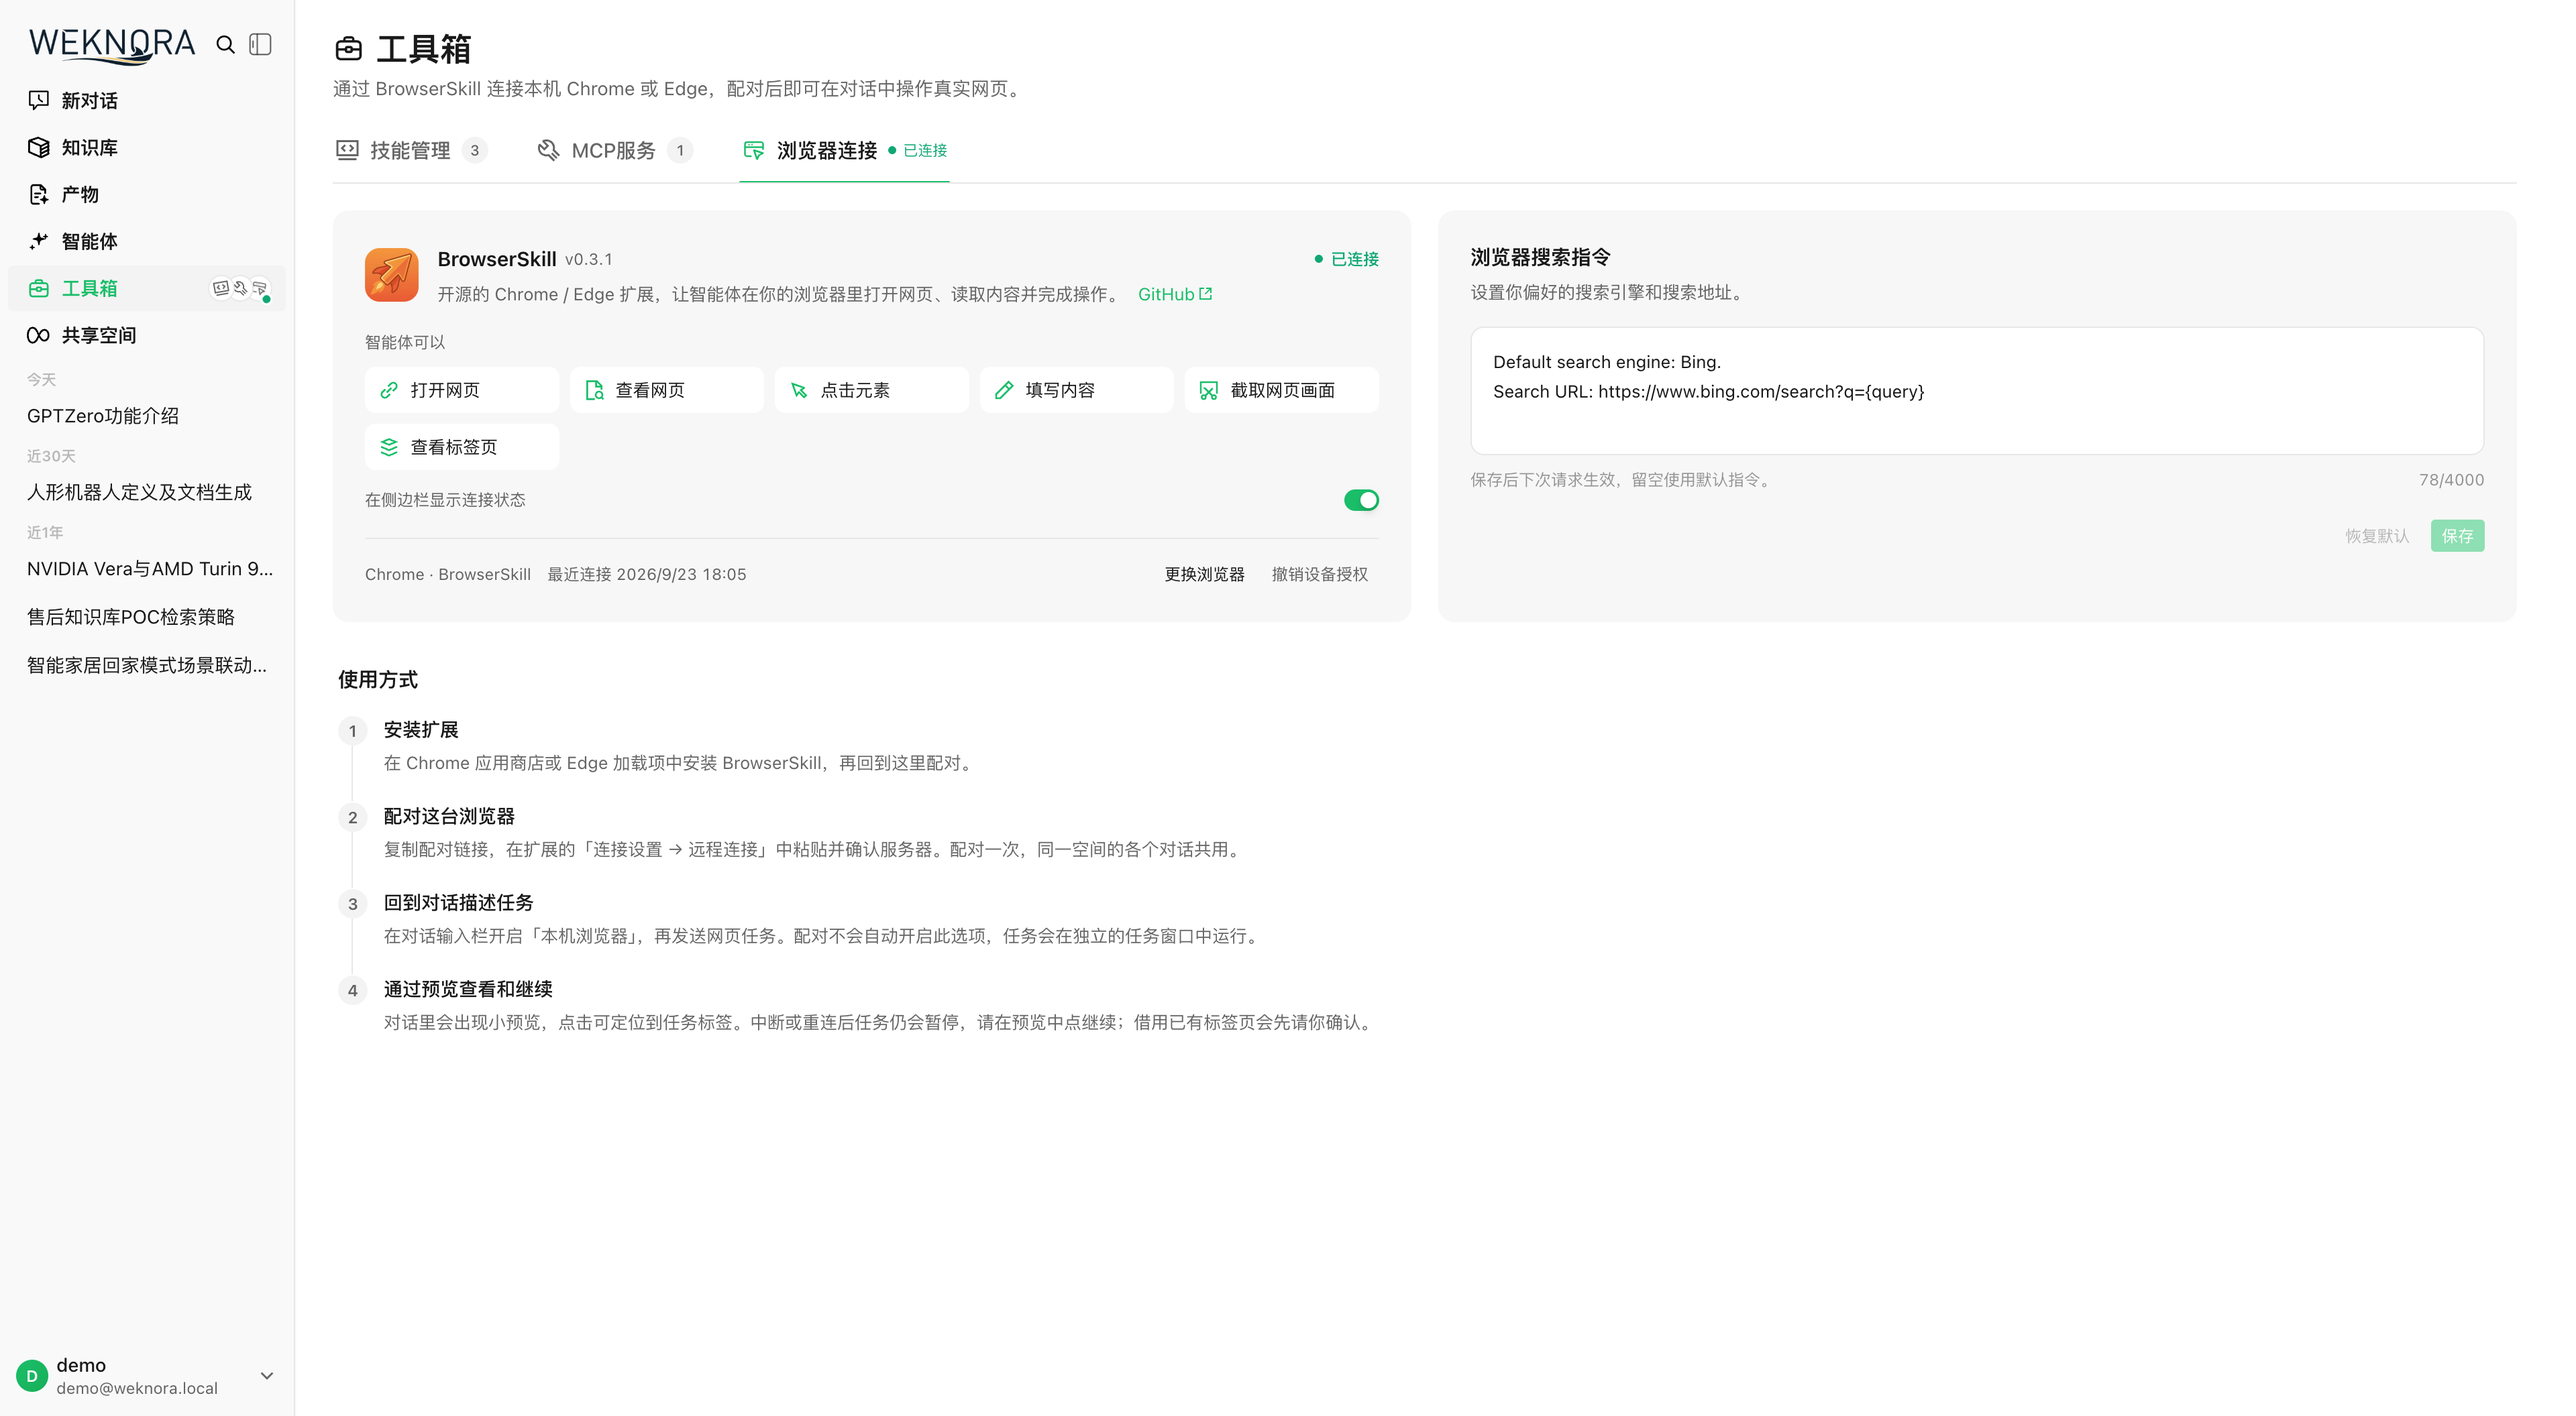
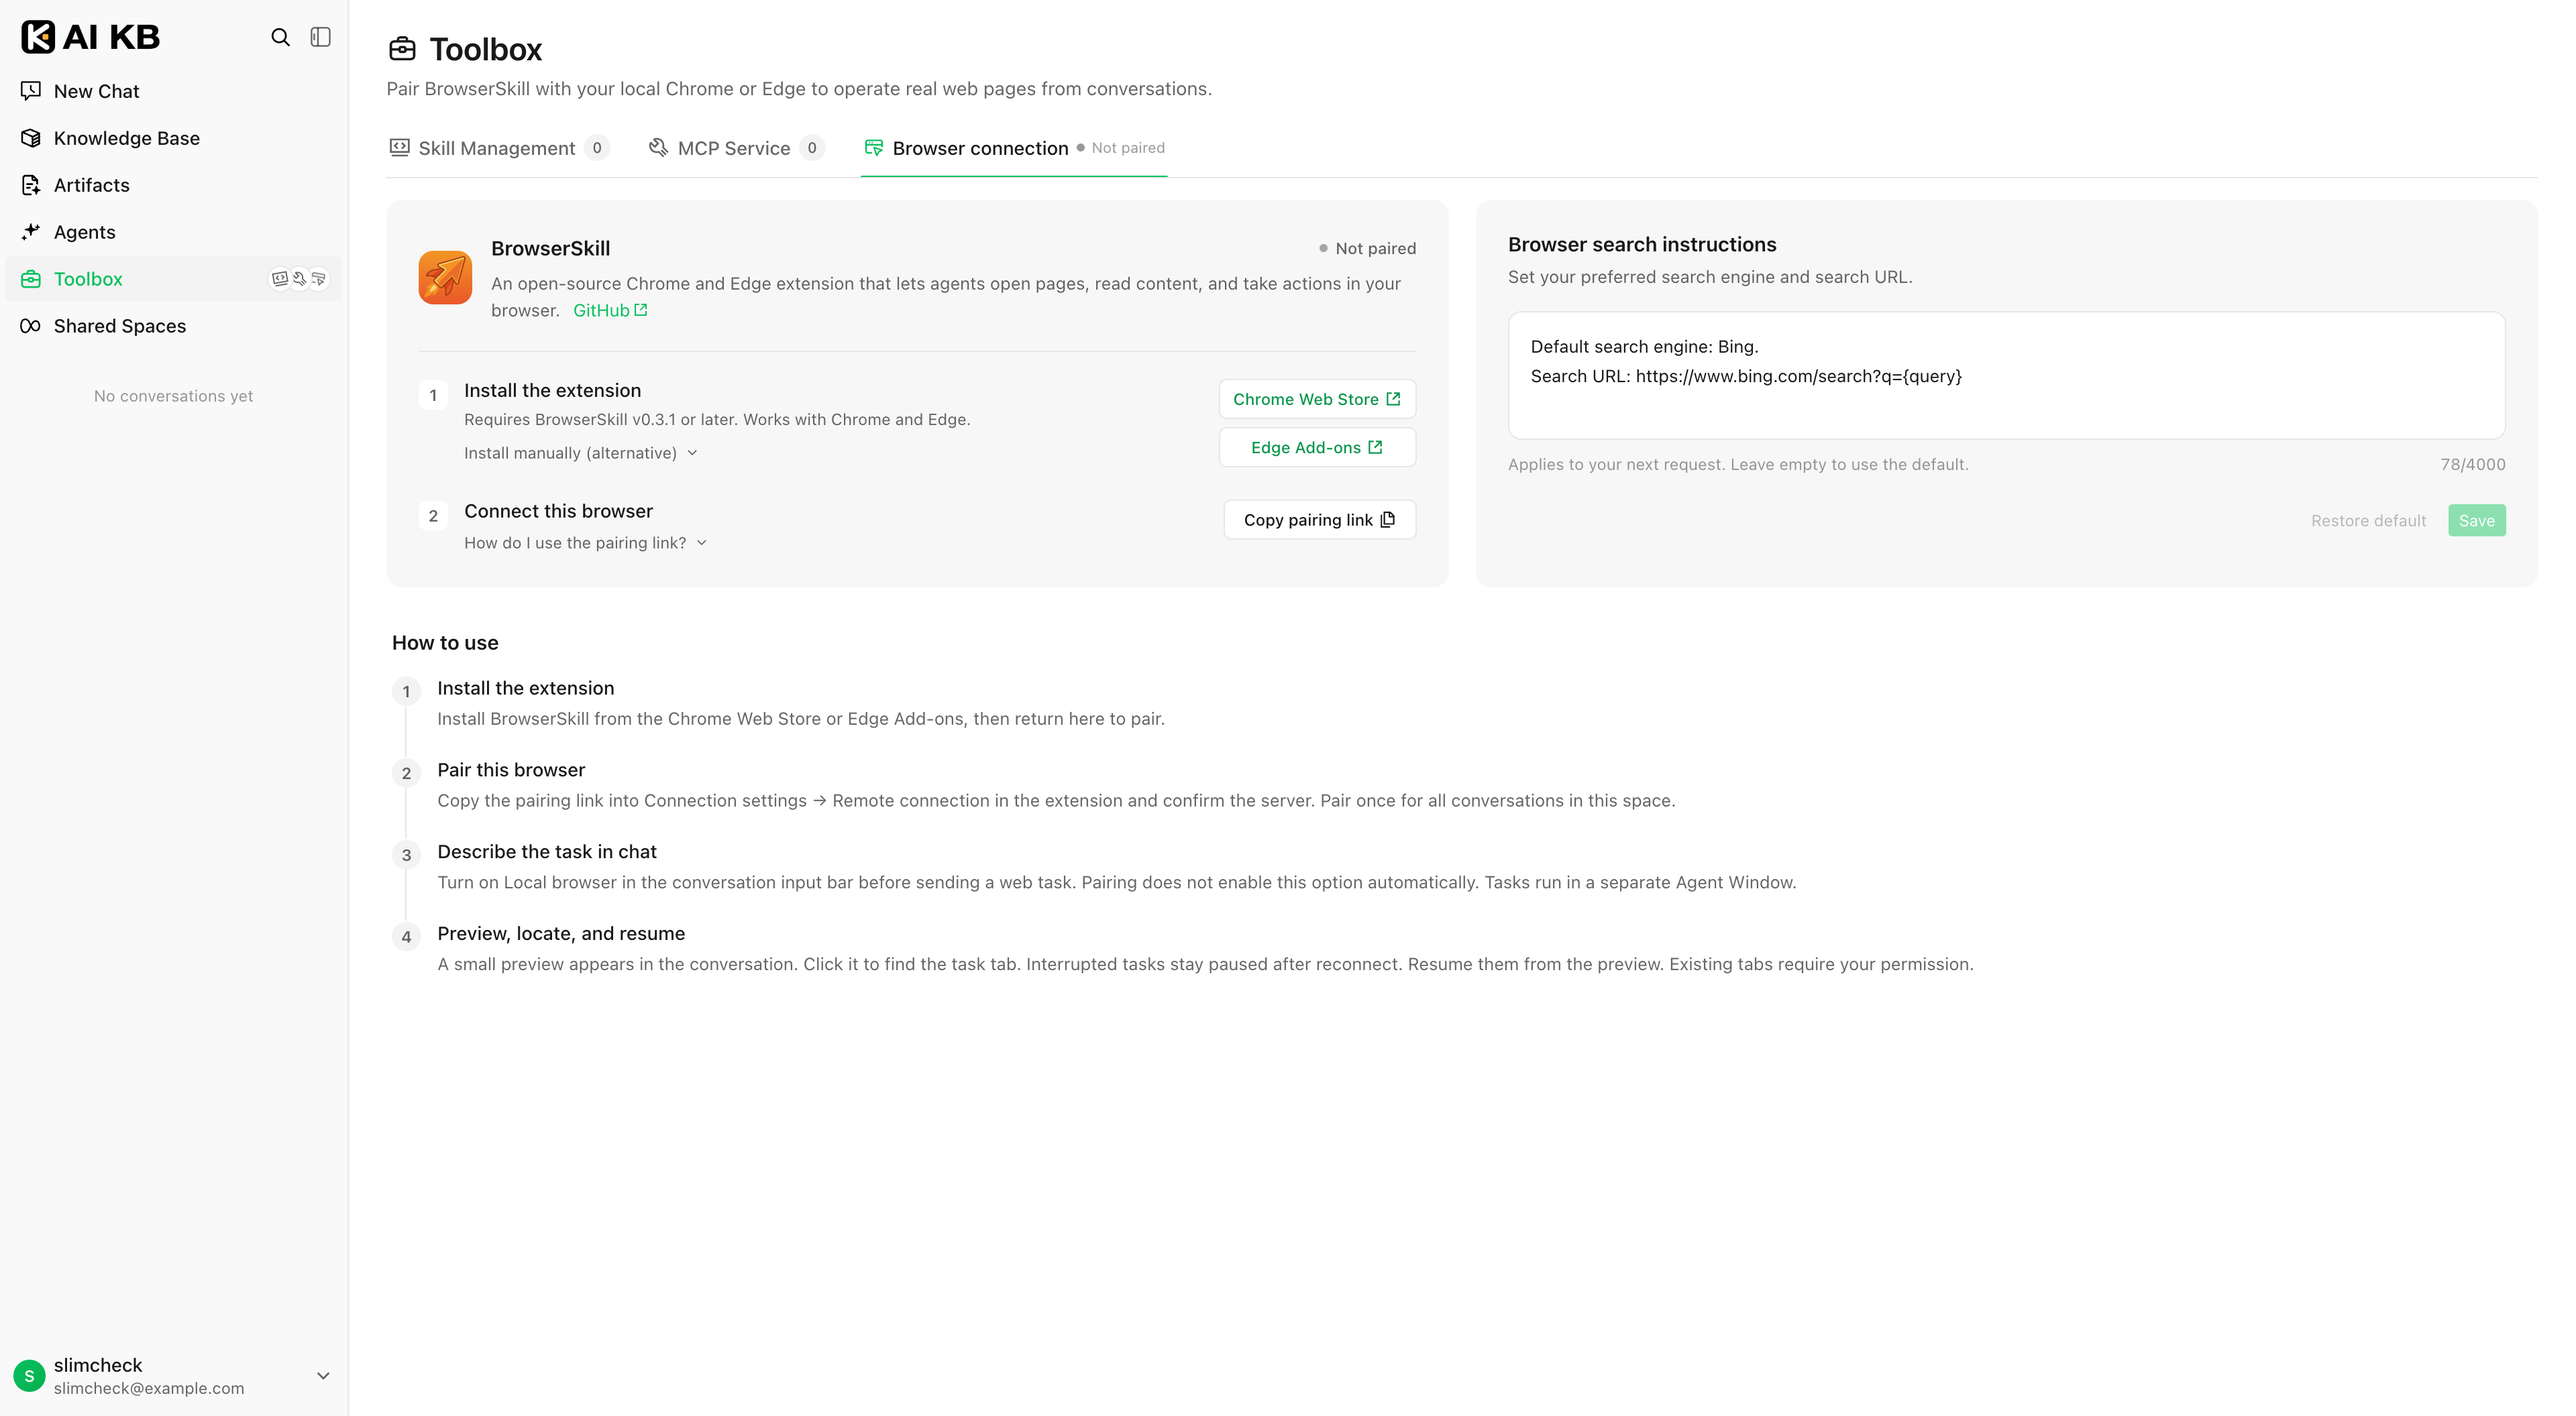
docs: capture the browser-connection and Langfuse screenshots under AI KB, drop two orphaned seed shots

diff --git a/website-docs/homepage/app/page.tsx b/website-docs/homepage/app/page.tsx
@@ -27,7 +27,7 @@ const withAvailability = (slide: SlideSource): GallerySlide => {
 const agentSlides = [
   { name: "Local Browser", icon: "browser", shots: [
     { label: "Run a task", icon: "browser", image: "local-browser-task", alt: "Product screenshot: a Smart Reasoning conversation driving the local browser, with the task preview and pause, resume and end controls in the chat" },
-    { label: "Connect the extension", icon: "plug", image: "browser-connection", alt: "Product screenshot: the Toolbox browser connection page, with the BrowserSkill extension connected and the web actions the agent can take listed" },
+    { label: "Connect the extension", icon: "plug", image: "browser-connection", alt: "Product screenshot: the Toolbox browser connection page with the BrowserSkill install buttons, the pairing link and the how-to-use steps" },
   ], title: "Drive the browser on your computer", description: "Through the open source BrowserSkill extension, the agent opens pages and fills in forms in your own Chrome or Edge, and hands login and CAPTCHA steps to you.", link: guide("05-clients/09-local-browser"), external: { label: "BrowserSkill", href: "https://github.com/Tencent/BrowserSkill", logo: "browserskill.png" } },
   { name: "MCP Server", icon: "plug", image: "mcp-server-endpoint", title: "Publish knowledge bases to other AI tools", description: "Create an MCP endpoint for a workspace. Claude, Cursor and other clients connect to it to search the knowledge base and ask questions.", alt: "Product screenshot: MCP endpoint connection details, with the endpoint URL and the mcpServers configuration for Cursor and Claude Desktop", link: guide("03-features/08-mcp") },
   { name: "Conversation control", icon: "branch", image: "chat-steer-queue", title: "Steer a conversation while it runs", description: "Add requirements while an answer is running, or fork or rewind from any earlier question. Generated files are collected on the Artifacts page.", alt: "Product screenshot: follow-up requirements queued above the input box while an answer is generated", link: guide("03-features/18-chat-experience") },

diff --git a/website-docs/05-clients/09-local-browser.md b/website-docs/05-clients/09-local-browser.md
@@ -23,8 +23,8 @@ This section pairs one browser with your account and turns it on for a conversat
 
 <Screenshot
   src="/screenshots/browser-connection.png"
-  caption="Toolbox → Browser connection: pairing link, connection status and extension install options"
-  hint="A paired, online browser: the connection status on the tab, device information, the pairing link area, the Chrome and Edge store links with 'Install manually (alternative)', and the 'Show connection status in the sidebar' switch. A green status dot is visible next to Toolbox in the sidebar." />
+  caption="Toolbox → Browser connection: extension install options, pairing link and connection status"
+  hint="The Browser connection tab before pairing: the Not paired status on the tab and the BrowserSkill card, the Chrome Web Store and Edge Add-ons buttons with Install manually (alternative), the Copy pairing link button, the Browser search instructions editor and the four How to use steps. After pairing the status reads Connected and a green dot appears next to Toolbox in the sidebar." />
 
 The Browser connection tab shows the connection status: Connected, Offline or Not paired. Once paired, the small browser icon to the right of Toolbox in the sidebar also shows a status dot, green for connected and orange for offline. To hide it, turn off "Show connection status in the sidebar" on the Browser connection page. That setting is stored only in the current browser. The same page also has "Browser search instructions", which set your preferred search engine and search URL (up to 4000 characters, saved to your user account).
 
